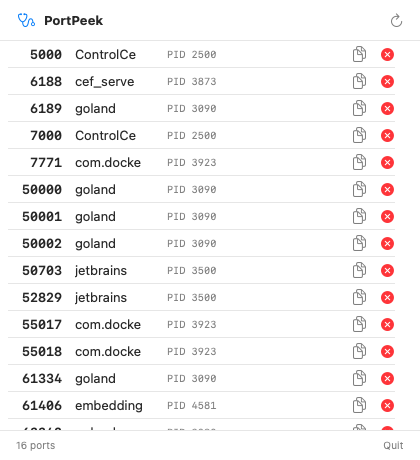
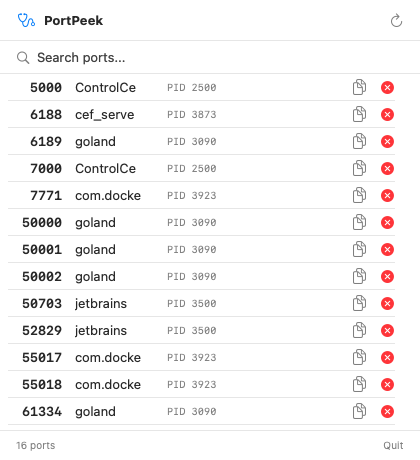
Update screenshot to reflect current UI with search box

Changed region(s): [[0.031, 0.0913, 0.9595, 0.9435]]

diff --git a/PortPeekCapture/Sources/PortPeekCapture/PortListView.swift b/PortPeekCapture/Sources/PortPeekCapture/PortListView.swift
@@ -2,12 +2,13 @@ import SwiftUI
 
 struct PortListView: View {
     @Bindable var scanner: PortScannerService
-    @State private var portToKill: PortEntry?
-    @State private var killError: String?
+    @State private var searchText = ""
 
     var body: some View {
         VStack(spacing: 0) {
             header
+            Divider()
+            searchField
             Divider()
             content
             Divider()
@@ -31,6 +32,17 @@ struct PortListView: View {
         }
         .padding(.horizontal, 16)
         .padding(.vertical, 12)
+    }
+
+    private var searchField: some View {
+        HStack(spacing: 6) {
+            Image(systemName: "magnifyingglass")
+                .foregroundStyle(.secondary)
+            TextField("Search ports...", text: $searchText)
+                .textFieldStyle(.plain)
+        }
+        .padding(.horizontal, 16)
+        .padding(.vertical, 8)
     }
 
     @ViewBuilder